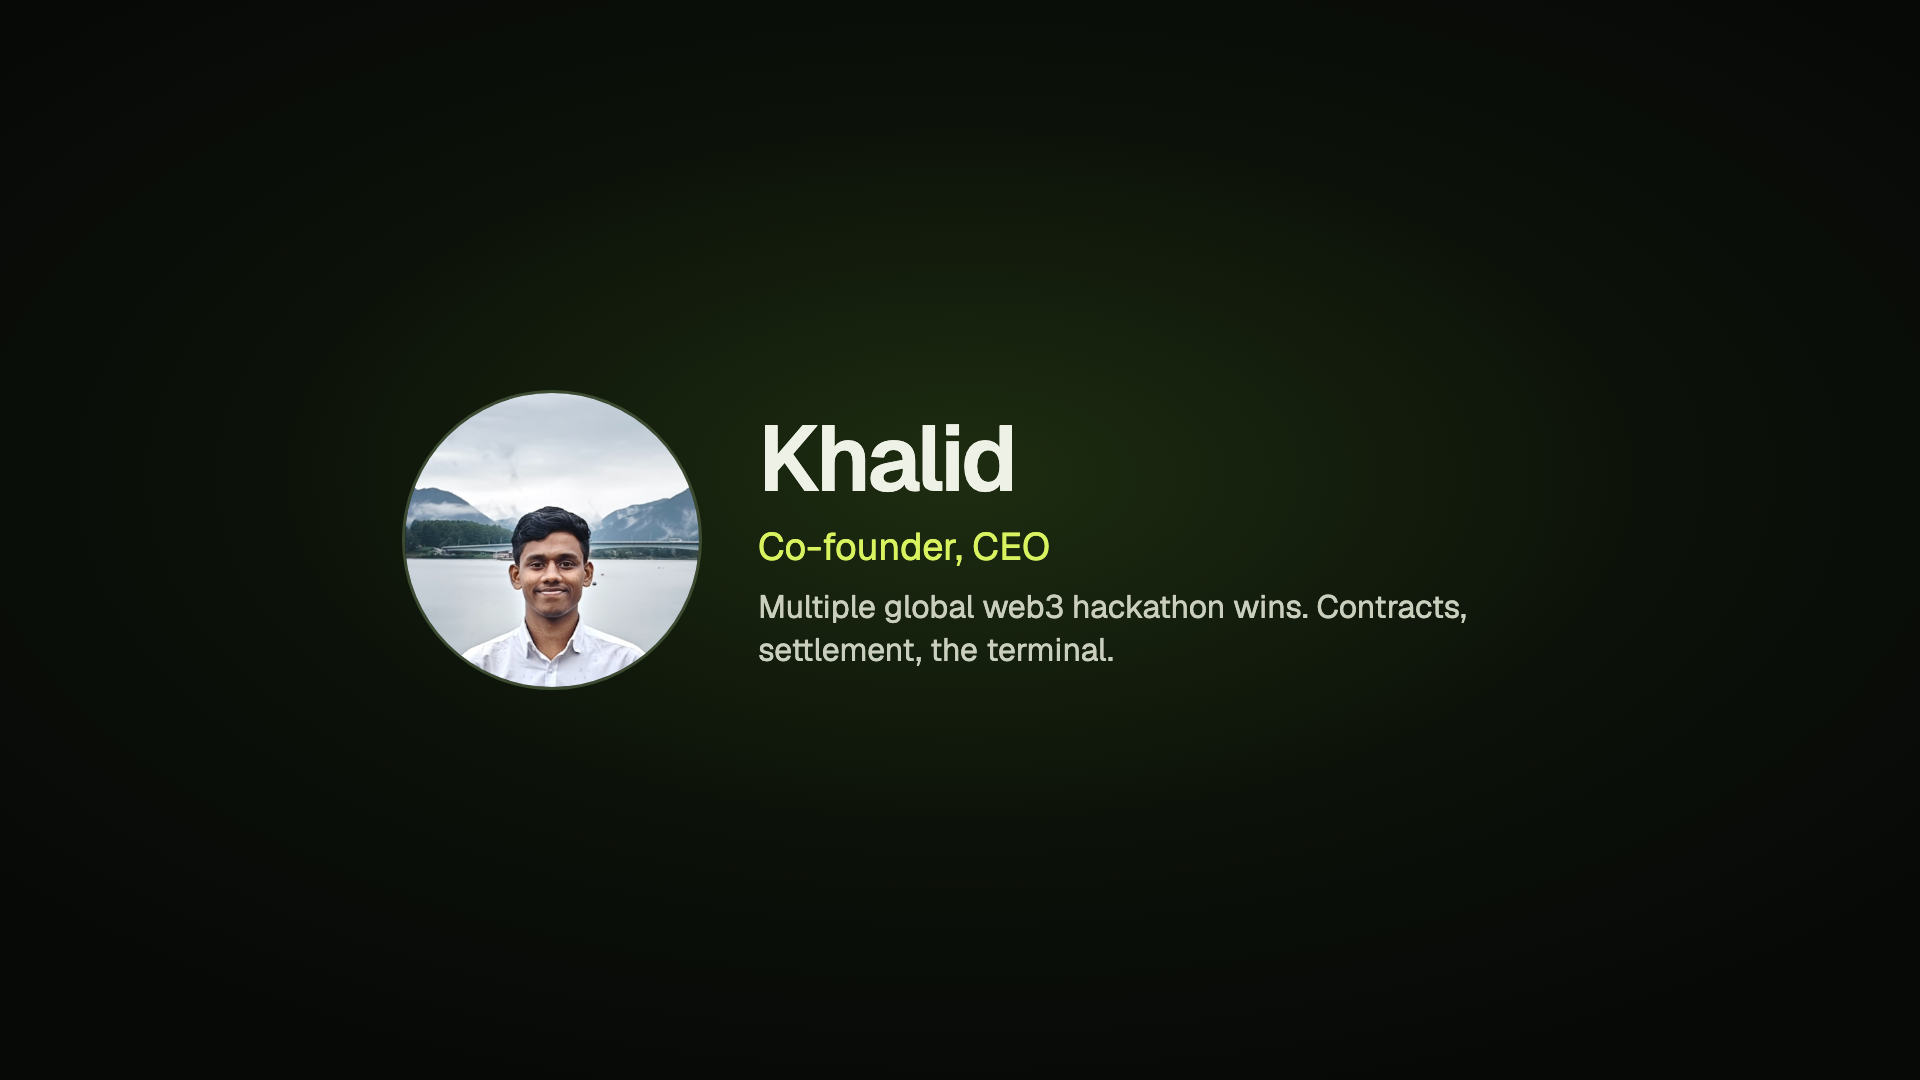
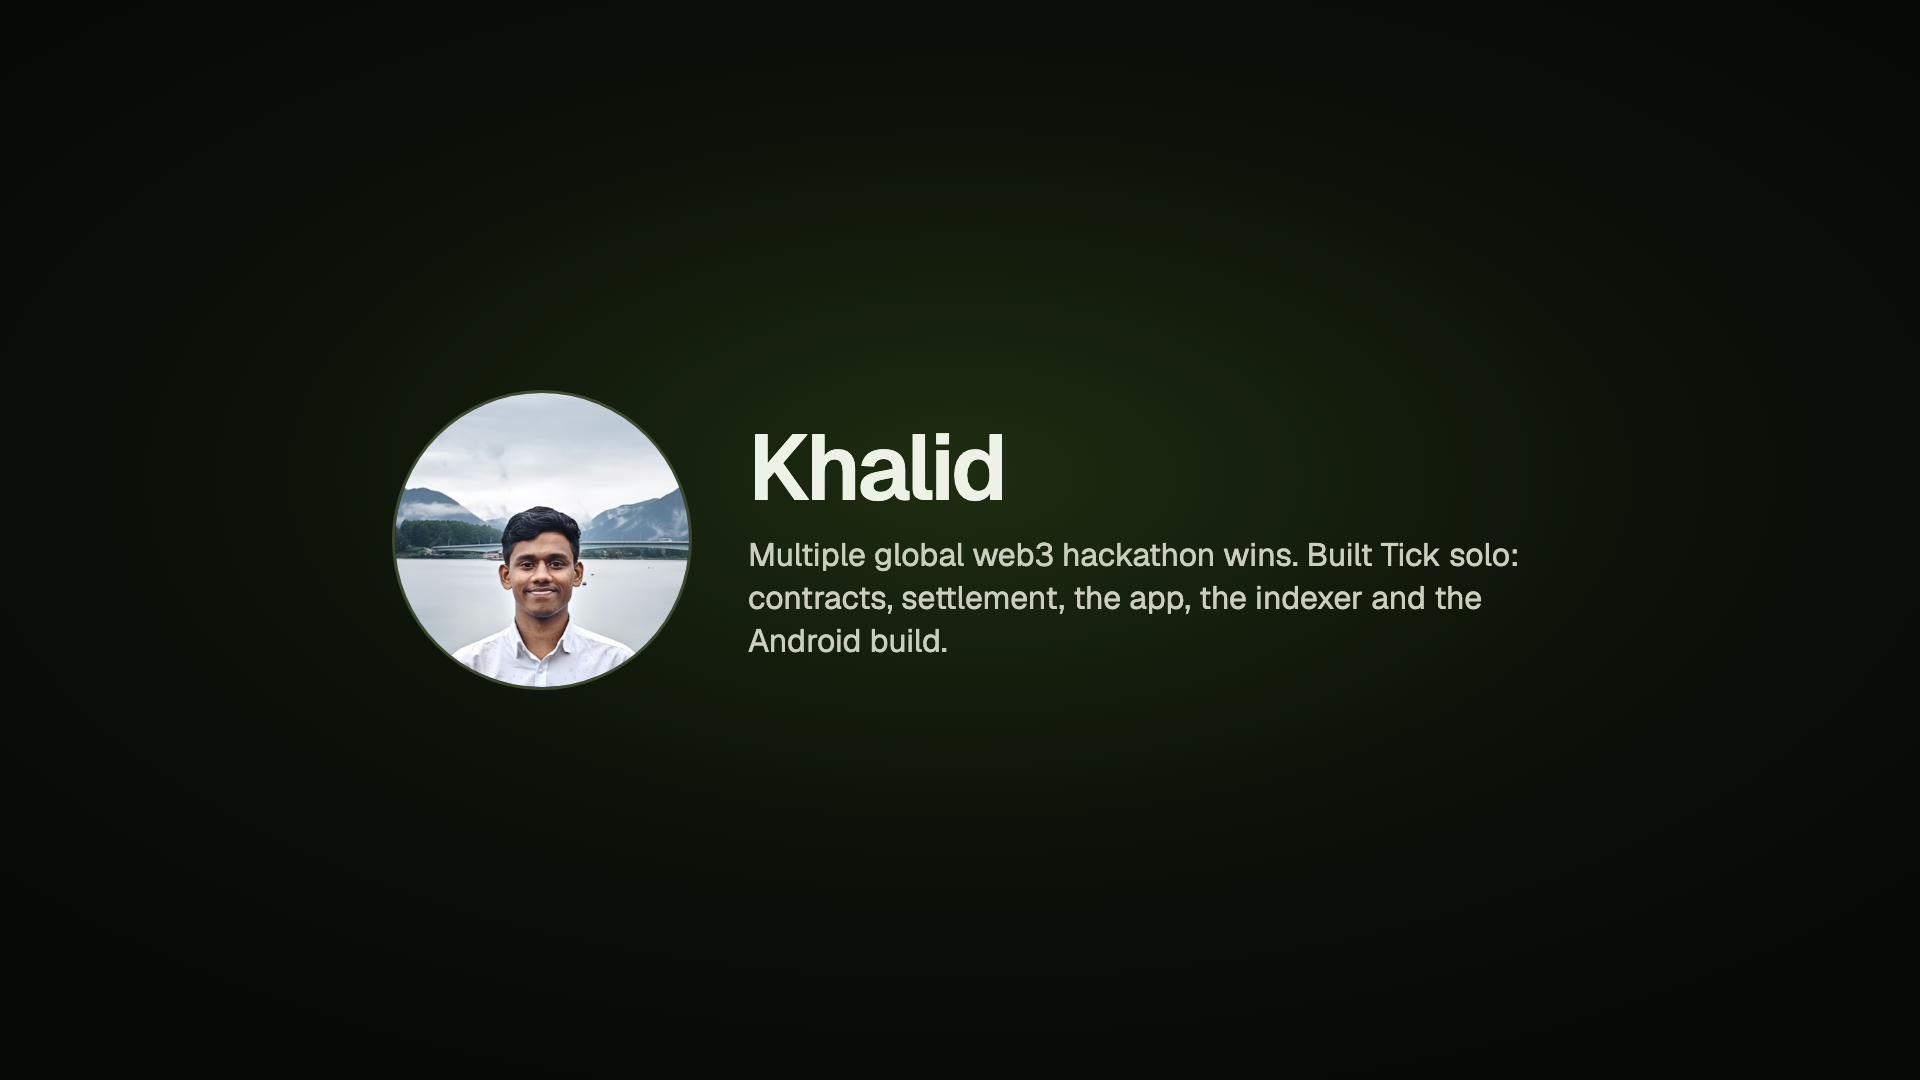
Make the Monad pitch a solo submission
No co-founder card, no titles, and the script is one voice throughout.

Changed region(s): [[0.1875, 0.3667, 0.7812, 0.6417], [0.2188, 0.3667, 0.2812, 0.4278]]

diff --git a/media/pitch-video/PLAN.md b/media/pitch-video/PLAN.md
@@ -1,34 +1,33 @@
 # Pitch video — plan, script and assets
 
 Two minutes, landscape 1920x1080. They ask for three things: who you are, the problem you solve, and
-why you are building it. They are judging how you think and communicate, so this is deliberately
+why you are building it. This is a solo submission, so every line is yours. They are judging how you think and communicate, so this is deliberately
 plain. No music bed under the voice, no stock footage, no slogan at the end.
 
 Everything you need is in this folder. Shoot the talking head, drop the b-roll and cards over it.
 
 ## How to shoot it
 
-Phone on something steady, window light in front of you, plain wall behind. Record both of you
-separately in one take each, then cut between. Do not read the script word for word, it is audible.
-Read it twice, then say it in your own words.
+Phone on something steady, window light in front of you, plain wall behind. One take, straight
+through, then pick the best of three. Do not read the script word for word, it is audible. Read it
+twice, then say it in your own words.
 
 If the edit feels bare, cut to b-roll a beat **before** the sentence that describes it, never after.
 
 ## The cut
 
-| Time | On screen | Who | What is said |
-|---|---|---|---|
-| 0:00–0:04 | `cards/01-title.png` | — | hold silent, or start talking over it |
-| 0:04–0:14 | Khalid to camera, `cards/02-khalid.png` as a lower third at 0:06 | Khalid | "I'm Khalid, this is Lakshmi Kanth, and we built Tick. Between us we've won several global web3 hackathons, and Lakshmi Kanth has shipped production fintech." |
-| 0:14–0:24 | `cards/03-lakshmikanth.png` at 0:15, then back to camera | Lakshmi Kanth | "I handle the social layer and the app. Khalid handles the contracts and settlement. We've been building this one together for the whole hackathon." |
-| 0:24–0:40 | `cards/04-problem.png` at 0:26, hold | Khalid | "Prediction markets already won the argument. Billions get staked on being right. But the fastest market anyone runs takes five minutes, and you play it alone, on a screen built for one person." |
-| 0:40–0:52 | `broll/04-the-room.mp4` | Khalid | "Meanwhile everything people actually enjoy about trading, the group chat, the running score, the screenshot of the win, happens in a different app entirely." |
-| 0:52–1:04 | `cards/05-answer.png`, then `broll/02-calling-a-window.mp4` at 0:56 | Lakshmi Kanth | "So Tick settles every thirty seconds, and you play it in a room with your friends. Everyone calls the same window, from ten cents, and a live board re-sorts after every one." |
-| 1:04–1:16 | `broll/03-posting-the-card.mp4`, then `broll/05-the-card.mp4` at 1:10 | Lakshmi Kanth | "Win, and the app draws a card from your real on-chain record and drops it in the group chat. Nobody can fake a win and nobody can hide a loss, because the number comes off the chain." |
-| 1:16–1:32 | `broll/06-the-board.mp4`, then to camera | Khalid | "Nobody shipped a sub-minute market before because at the close of a window every settlement and claim lands at once, and a serial chain can't carry that for a ten cent stake. Monad executes them in parallel. That's why this is buildable now." |
-| 1:32–1:44 | `cards/06-honest.png`, hold | Lakshmi Kanth | "We'll be straight about where we are. It's testnet, so the economics are untested. Six wallets have placed 38 stakes with no marketing, and the cards got posted without us asking. That's early signal, not traction." |
-| 1:44–1:56 | `broll/01-signup-to-stake.mp4` | Khalid | "What is real is the product. Sign in with an email, no seed phrase, and you're calling a thirty second window about fifteen seconds later. Six contracts live, an Android build shipped, the social layer on chain." |
-| 1:56–2:00 | `cards/07-close.png` | both | "Come call thirty seconds with us." |
+| Time | On screen | What is said |
+|---|---|---|
+| 0:00–0:04 | `cards/01-title.png` | hold silent, or start talking over it |
+| 0:04–0:16 | to camera, `cards/02-khalid.png` as a lower third at 0:06 | "I'm Khalid, and I built Tick. I've won several global web3 hackathons, and I built this one on my own over the hackathon: the contracts, the app, the indexer and the Android build." |
+| 0:16–0:34 | `cards/04-problem.png` at 0:18, hold | "Prediction markets already won the argument. Billions get staked on being right. But the fastest market anyone runs takes five minutes, and you play it alone, on a screen built for one person." |
+| 0:34–0:46 | `broll/04-the-room.mp4` | "Meanwhile everything people actually enjoy about trading, the group chat, the running score, the screenshot of the win, happens in a different app entirely." |
+| 0:46–1:00 | `cards/05-answer.png`, then `broll/02-calling-a-window.mp4` at 0:50 | "So Tick settles every thirty seconds, and you play it in a room with your friends. Everyone calls the same window, from ten cents, and a live board re-sorts after every one." |
+| 1:00–1:14 | `broll/03-posting-the-card.mp4`, then `broll/05-the-card.mp4` at 1:08 | "Win, and the app draws a card from your real on-chain record and drops it in the group chat. Nobody can fake a win and nobody can hide a loss, because the number comes off the chain." |
+| 1:14–1:32 | `broll/06-the-board.mp4`, then to camera | "Nobody shipped a sub-minute market before because at the close of a window every settlement and claim lands at once, and a serial chain can't carry that for a ten cent stake. Monad executes them in parallel. That's why this is buildable now, and it wasn't two years ago." |
+| 1:32–1:44 | `cards/06-honest.png`, hold | "I'll be straight about where this is. It's testnet, so the economics are untested. Six wallets have placed 38 stakes with no marketing, and the cards got posted without me asking. That's early signal, not traction." |
+| 1:44–1:56 | `broll/01-signup-to-stake.mp4` | "What is real is the product. Sign in with an email, no seed phrase, and you're calling a thirty second window about fifteen seconds later. Six contracts live, an Android build shipped, the social layer on chain." |
+| 1:56–2:00 | `cards/07-close.png` | "Come call thirty seconds with me." |
 
 ## Assets
 
@@ -47,7 +46,7 @@ All 1920x1080, 30fps, no audio, so you can lay them under the voice anywhere.
 
 ### Cards, 1920x1080
 
-`01-title` · `02-khalid` · `03-lakshmikanth` · `04-problem` · `05-answer` · `06-honest` · `07-close`
+`01-title` · `02-khalid` · `04-problem` · `05-answer` · `06-honest` · `07-close`
 
 Hold a card for at least three seconds. `04-problem`, `05-answer` and `06-honest` carry numbers, so
 give those four or five.
